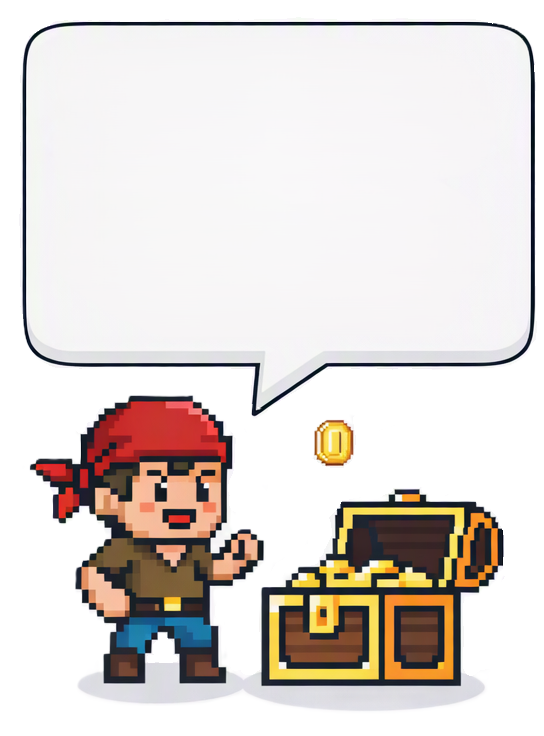
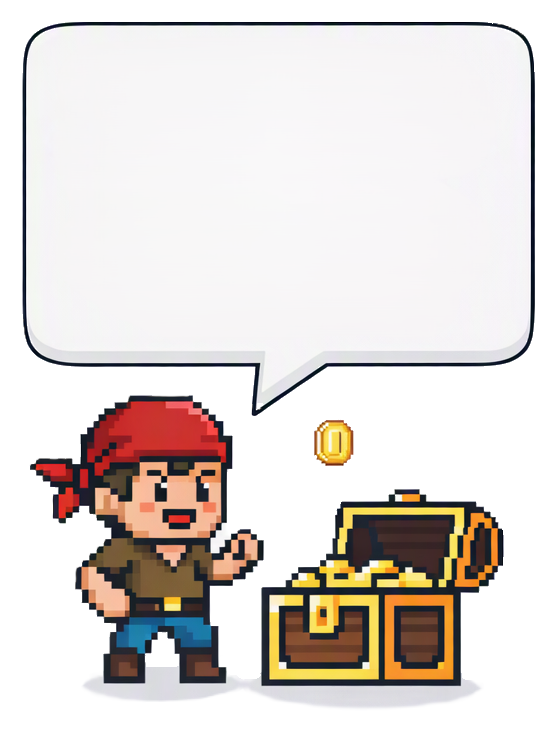
mejora foto

diff --git a/style/Edi_Style.css b/style/Edi_Style.css
@@ -134,13 +134,14 @@ header {
     transition: all 0.1s ease;
     box-shadow: 0px 4px 0px #000000;
     color: var(--azul-principal);
-    cursor: pointer;
+
 }
 
 .btn-gamer:hover {
     background-color: var(--amarillo-principal);
     transform: translateY(-2px);
     box-shadow: 0px 6px 0px #000000;
+
 }
 
 .btn-gamer:active {
